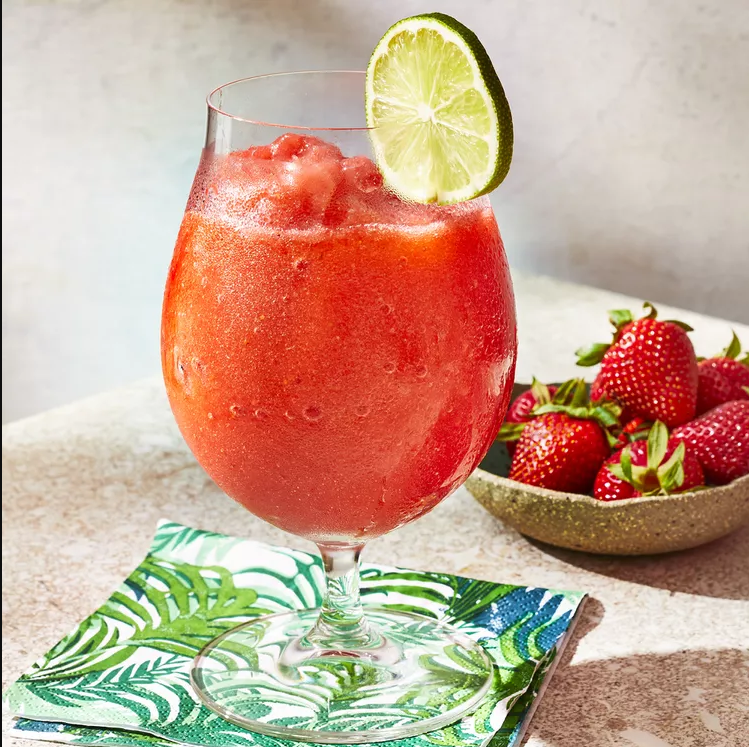
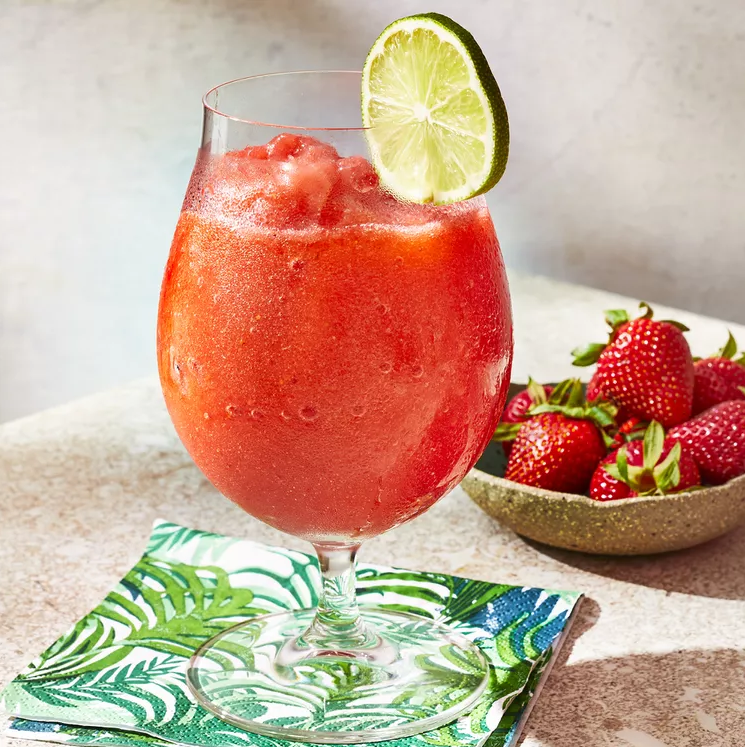
Added daiquiri text, slight img edit

diff --git a/recipes/strawberry-daiquiri.html b/recipes/strawberry-daiquiri.html
@@ -8,30 +8,38 @@
 <body>
 <h1>Best Strawberry Daiquiri</h1>
 <!-- From: https://www.allrecipes.com/recipe/32352/best-strawberry-daiquiri/ -->
+<img src="../imgs/strawberry-daiquiri.png">
 <div>
 <h2>Description</h2>
-<p></p>
+<p>It's officially happy hour with these easy strawberry daiquiris made with either frozen or fresh, sweet, in-season strawberries if you can find them. A little citrus juice really kicks the strawberry flavor up a notch and a bit of lemon-lime soda adds a hint of effervescence. Double or triple this recipe for a party and you'll never buy daiquiri mixes or canned, ready-made daiquiris again. Leave out the rum for a batch of the best strawberry-citrus mocktails around!</p>
 
 Prep Time: 10 Minutes<br>
 Total Time: 10 Minutes<br>
 Servings: 8<br>
 </div>
-<br>
+
 <div>
 <h2>Ingredients</h2>
 <ul>
-<li></li>
-<li></li>
-<li></li>
-<li></li>
+<li>4 ounces frozen strawberries</li>
+<li>½ cup white sugar</li>
+<li>½ cup lemon juice</li>
+<li>⅛ cup lime juice</li>
+<li>¾ cup rum</li>
+<li>¼ cup lemon-lime flavored carbonated beverage</li>
+<li>6 cups ice, or as needed</li>
 </ul>
 </div>
-<br>
+
 <div>
 <h2>Directions</h2>
 <ol>
-    <li></li>
-    <li></li>
+    <!-- Slight adjustment, original directions had everything as 1 step -->
+    <li>Place frozen strawberries in a blender.</li>
+    <li>Add sugar, lemon juice, and lime juice.</li>
+    <li>Pour in rum and lemon-lime beverage.</li>
+    <li>Add ice</li>
+    <li>Blend until smooth.</li>
 </ol>
 </body>
 </html>
